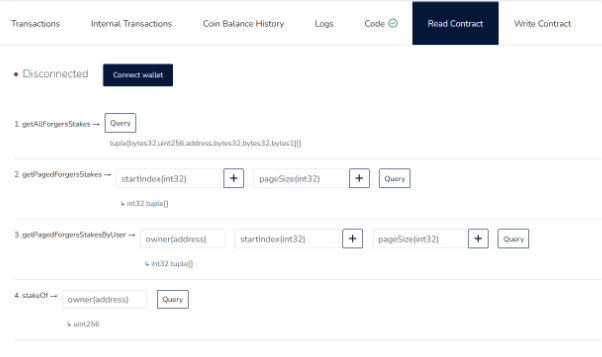
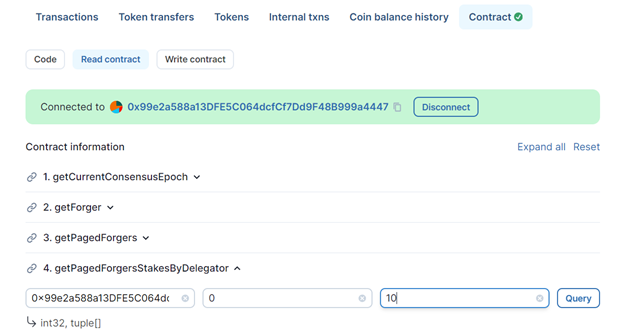
Updates for EON  1.4.0 (#141)
* Updates for EON  1.4
* forger setup updates 

---------

diff --git a/docs/horizen_eon/07-tutorials/01-forger_node_setup_guide.md b/docs/horizen_eon/07-tutorials/01-forger_node_setup_guide.md
@@ -33,6 +33,10 @@ Minimum and recommended instance requirements for running an EON Forger Node in 
 - Must not restrict peer connections.
 - Must configure the EON P2P TCP port 9084 to be reachable from the outside for other nodes to connect to (EON MUST accept incoming connections from other nodes).
 
+**Minimum ZEN Stake**
+- A minimum amount of 10 ZEN in stake (summing all the delegations) is required for forgers to be eligible to propose a block.
+
+
 **Note:** The requirements detailed can be added to or modified without notice.
 
 ## Docker Setup
@@ -60,7 +64,7 @@ sudo chmod a+r /etc/apt/keyrings/docker.asc
 echo \ "deb [arch=$(dpkg --print-architecture) signed-by=/etc/apt/keyrings/docker.asc] https://download.docker.com/linux/ubuntu \ $(. /etc/os-release && echo "$VERSION_CODENAME") stable" | \ sudo tee /etc/apt/sources.list.d/docker.list > /dev/null 
 
 
-## Install Docker’s official packages and required dependancies
+## Install Docker’s official packages and required dependencies
 sudo apt-get update
 sudo apt-get install docker-ce docker-ce-cli containerd.io docker-buildx-plugin docker-compose-plugin -y
 
@@ -68,7 +72,7 @@ sudo apt-get install docker-ce docker-ce-cli containerd.io docker-buildx-plugin 
 
 Test the installation
 ```bash
-## Add curent logged in user to Docker group
+## Add current logged in user to Docker group
 sudo usermod -aG docker "$USER"
 
 ## Set temporal Docker group to 'user'
@@ -95,7 +99,7 @@ This message shows that your installation appears to be working correctly.
 ## Run a Forger Node
 Download the official EON forger node repository from GitHub
 ```bash
-## Install required packages and necessary dependancies for forger node setup
+## Install required packages and necessary dependencies for forger node setup
 sudo apt-get update
 sudo apt-get install git jq pwgen aria2 -y
 
@@ -128,7 +132,7 @@ What network would you like to setup 'eon' (mainnet) or 'gobi' (testnet):
 #? 
 ```
 
-\*\*For this next step, it’s suggested that a new wallet seed phrase be set up rather than using an existing one. For users who have previously set up a forger node and prefer to import their existing seed phrase, you may do so by typing *yes* followed by *Enter*.
+For this next step, it’s suggested that a new wallet seed phrase be set up rather than using an existing one. For users who have previously set up a forger node and prefer to import their existing seed phrase, you may do so by typing *yes* followed by *Enter*.
 
 Type *no* and press *Enter*
 
@@ -330,7 +334,43 @@ docker compose -f deployments/forger/eon/docker-compose.yml exec evmapp gosu use
  }
 }
 ```
-You should see the same values you’ve saved from the previous step in the output above. 
+You should see the same values you’ve saved from the previous step in the output above.
+
+### (Optional) Reward smart contract deployment
+Starting from EON 1.4 you can redirect part of the forger's rewards to a smart contract, typically to use it to handle rewards distribution to delegators (but you can implement any workflow you want).<br/>
+The redirection will be specified with two parameters (rewardShare and rewardAddress) set during the forger registration step, described in the next point of this guide.<br/>
+<br/>
+You can use any smart contract, but Horizen provides an audited and certified smart contract with a default implementation: it is able 
+to collect the rewards, and exposes a "claim" function that each delegator can call to retrieve the money.
+
+You can check the smart contract code here: [https://github.com/HorizenOfficial/eon-delegated-staking](https://github.com/HorizenOfficial/eon-delegated-staking).
+
+More info on the methods exposed can also be found in the [README file here](https://github.com/HorizenOfficial/eon-delegated-staking/tree/main/delegated-staking-contracts).
+
+A new instance of the smart contract is required for each forger: if you want to deploy one for your forger, the factory is available at this address: [0x8604Bb903B7D54F666bA1e75f98045345C63132a ](https://eon-explorer.horizenlabs.io/address/0x8604Bb903B7D54F666bA1e75f98045345C63132a?tab=contract)
+
+You can call the method deployDelegatedStakingReferenceImplementation of the factory, parameters required are the signPubKey and vrfKey that identify your forger (the latter is split in two different parameters: one for the first 32 bytes and one for the last byte).
+The method execution will trigger the deployment of the smart contract instance.  Take note of its address: you will need it in the following step.
+
+**(Note: this step is not needed if in the  following forger registration step you specify rewardShare = 0, meaning you don't want to split the rewards and send all of them to the forger)**
+
+
+### Forger registration
+Starting from EON 1.4, a forger on-chain registration is required before being able to accept delegations and forge blocks.
+You can launch the transaction using the http endpoint  [/transaction/registerForger](https://github.com/HorizenOfficial/eon/blob/main/doc/api/transaction/registerForger.md)  in your local node.
+The mandatory parameters are:
+- blockSignPubKey and vrfPubKey: use the keys generated in the previous 'Generate keys' point
+- stakedAmount: the initial stake you want to assign to your forger. Represented as an integer value specified in zennies, and must be >= 10 ZEN. The amount will be taken from your local node wallet, and you will be able to withdraw it any time using the same address used by sending this transaction (but keep in mind that if the total delegated amount will become < 10 ZEN, your forger will no more be able to propose blocks).
+- rewardShare:  Reward to be redirected to rewardAddress (integer, range from 0 to 1000 - where 1000 represents 100%)
+- rewardAddress: External reward address (may be a single EOA or (more likely) a smart contract handling rewards distribution to delegator - see previous point). Must be present only if rewardShare is > 0. Omit the initial 0x prefix when specifying it.
+
+**Important:**<br/>
+Double check rewardShare and rewardAddress parameters before launching the transaction, since they will not be updatable once set! If you want to change them after the registration, 
+you will have to register a new forger with different keys, and move all the delegations to the new forger.
+
+Check the [/transaction/registerForger](https://github.com/HorizenOfficial/eon/blob/main/doc/api/transaction/registerForger.md) EON documentation page for further info on this endpoint.
+
+Existing forgers present before EON 1.4 will not have to perform this step, and will be registered by default, with rewardShare = 0.
 
 ### Stake $ZEN to your Forger
 **Prerequisites**
@@ -350,7 +390,7 @@ In this guide, we will walk you through the process of staking $ZEN to your forg
 
 In order to use [Web Remix IDE](https://remix.ethereum.org/) to set up staking for your forger node, you first need to [download](https://github.com/HorizenOfficial/eon-smart-contract-tools/archive/refs/heads/main.zip) the eon-smart-contract-tools-main zip folder containing a suite of scripts that will help to automate the setup process and extract the files within the zip folder. Please note the drive location where this folder is downloaded, as you will need to upload files from this folder at a later step.
 
-**Before proceeding, make sure to extract the files from the downloaded zip folder and note the location of the extracted files. Also, please make sure to sign in to your MetaMask web wallet account before continuing your Remix IDE setup. 
+Before proceeding, make sure to extract the files from the downloaded zip folder and note the location of the extracted files. Also, please make sure to sign in to your MetaMask web wallet account before continuing your Remix IDE setup.
 
 For more advanced users who wish to download the repository containing the suite of scripts needed to automate the setup process, you may use Git to do so:
 ```bash
@@ -370,9 +410,9 @@ Using these tools will enable you to stake and unstake your $ZEN to an EON forge
 
 3. Import the Remix folder scripts. To do this:
 - Click the *Upload Folder* icon as shown below and find the folder location containing the extracted files from your downloaded zip folder (the noted download location from the previous steps above). 
-- Select the *remix* folder, which can be found under *eon-smart-contract-tools-main/contracts/forger_stake_delegation/remix*, and click *upload*. 
+- Select the *remix* folder, which can be found under *eon-smart-contract-tools-main/contracts/forger_stake_v2/remix*, and click *upload*. 
 
-\*\*Before continuing, please have the key-value pairs that were created in the *Generate Keys* step ready and available to use. These values will be used in the next step.
+Before continuing, please have the key-value pairs that were created in the *Generate Keys* step ready and available to use. These values will be used in the next step.
 <p>
 <img src={require("/img/docs/tutorial/remix-file-explorer1.png").default} alt="Remix Upload Folder" width="600" height="400" />
 </p>
@@ -411,43 +451,36 @@ Using these tools will enable you to stake and unstake your $ZEN to an EON forge
 </p>
 
 8. Check your staking on the Explorer.
-- Go to the [Forger Contract Read Functions](https://eon-explorer.horizenlabs.io/address/0x0000000000000000000022222222222222222222/read-contract#address-tabs) page.
-- Click on the *Read Contract* tab.
+- Go to the [Forger Stake V2 Contract  Read Functions](https://eon-explorer.horizenlabs.io/address/0x0000000000000000000022222222222222222333?tab=read_contract) page.
+- Click on the *Connect wallet* button.
 - Connect your wallet.
-- Go to the *getPagedForgersStakesByUser* method and enter the following:
+- Go to the *getPagedForgersStakesByDelegator* method and enter the following:
    - MetaMask address
    - 0 for the *startIndex* field
-   - 1 in the *pageSize* field
+   - 10 in the *pageSize* field
    - Then click on *Query*
 <p>
 <img src={require("/img/docs/tutorial/explorer-staking1.png").default} alt="EON Explorer" width="600" height="400" />
 </p>
-<p>
-<img src={require("/img/docs/tutorial/explorer-staking2.png").default} alt="EON Explorer" width="600" height="400" />
-</p>
 
-This will get your forged staked info such as amount of $ZEN staked, and your ***stakeId***. Save your ***stakeId*** since you will need this input to unstake your $ZEN.
 
-*Once your forger node EVMAPP gets fully synced, you will need to wait approximately 9 hours (two epochs) in order to be eligible to participate in the block validating process.*
+This will get your stakes info such as forger pubkey, vrfkey and amount of $ZEN staked.
+
+*Remember that each modification of the stakes will take effect after 2 consensus epochs (25 hours max) in order to be eligible to participate in the block validating process.*
 
 ### Unstaking
-1. Before you can unstake, you should set active the eth_sign feature in Metamask wallet (you should disable this after unstaking):
-    - Advanced Settings → Active the Eth_sign Requests → Read & Confirm the warning → Click on Continue.
-2. Open Remix and select the *withdraw.js* file for editing
-3. Update the **STAKE_ID** field to the value that you received when staking. 
-4. Run the script.
-5. Metamask will prompt you to sign a message, click ***Sign***
-6. Disable the eth_sign feature.
+1. Open Remix and select the *withdraw.js* file for editing
+2. Update the **AMOUNT** , **YOUR_BLOCK_SIGN_PUBKEY** and **YOUR_VRF_PUBKEY** fields with the correct values (you can also withdraw a partial amount)
+3. Run the script.
 
 *If you would like to send funds back to the Horizen mainchain please use the following [guide](https://docs.horizen.io/horizen_eon/connect/backward_transfer) to do a backwards transfer.*
 
 ## Monitor Your Validated Blocks
 Go to the [EON Explorer](https://eon-explorer.horizenlabs.io/). Locate the Ethereum-generated address that was issued to you earlier during the Generate Keys step (these keys should always be stored in a secure location. Enter your Ethereum address in the search bar at the top right of the Explorer page and press enter.
-location).
 <p>
 <img src={require("/img/docs/tutorial/eon-explorer-address-search.png").default} alt="EON Explorer Address Search" width="600" height="400" />
 </p>
 
-All $ZEN earned by validated blocks will be sent to this address, so keep this and the private key in a safe place. Go to the Blocks validated tab, and you will see all the blocks you have validated.
+All $ZEN earned by validated blocks will be sent to this address (except a rewardShare > 0 was set during forger registration, see Forger registration section), so keep this and the private key in a safe place. 
 
 Please look at the FAQ section to learn more or engage with the community on the Horizen discord server.
